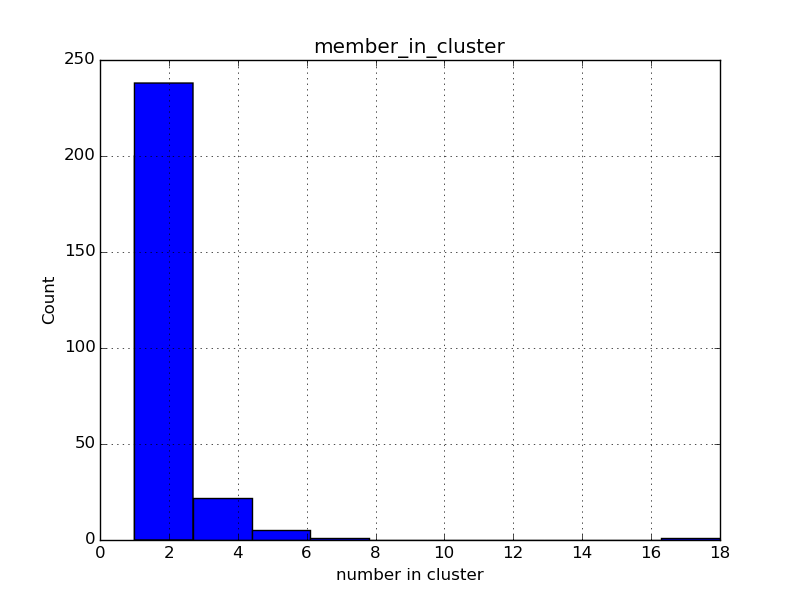
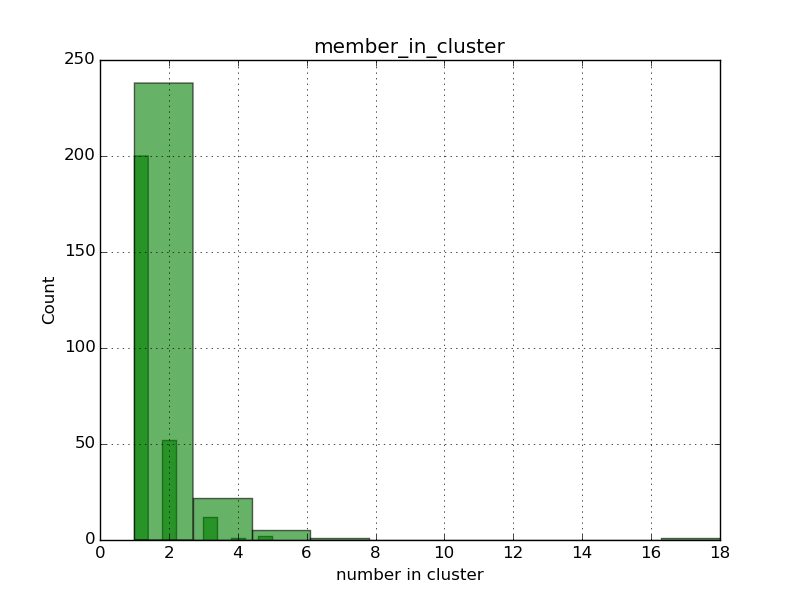
heat map not working

Changed region(s): [[0.1562, 0.12, 0.4375, 0.9], [0.8438, 0.87, 0.875, 0.9]]

diff --git a/Phyt_ITS_identifying_pipeline/Python_ITS_scripts/draw_bar_chart_of_clusters.py b/Phyt_ITS_identifying_pipeline/Python_ITS_scripts/draw_bar_chart_of_clusters.py
@@ -15,6 +15,7 @@ import matplotlib
 import numpy
 
 
+
 ##############################################################################################
 # drawing a histogram
 #n, bins, patches = hist(data)
@@ -71,22 +72,27 @@ def covert_dict_to_list_of_value(in_dict):
     return sorted(output_list), number_of_keys
 
 def plot_graph(data_values, title, number_of_keys, file_in):
+    """function to draw a histogram of a given list of values.
+    http://matplotlib.org/1.3.0/examples/pylab_examples/histogram_demo_extended.html
+    https://github.com/widdowquinn/Teaching-Data-Visualisation/blob/master/exercises/one_variable_continuous/one_variable_continuous.ipynb
+    """
         #import matplotlib
         matplotlib.use('Agg')
         import pylab
         import matplotlib.mlab as mlab
-        bins = max(data_values)
-        pylab.hist(data_values, facecolor='blue')
-        mu = mean(data_values)
-        standard_dev = numpy.std(data_values)
+        #bins = max(data_values)
+        #pylab.hist(data_values, facecolor='blue')
+        pylab.hist(data_values, facecolor='green', alpha=0.6)
+
+        #mu = mean(data_values)
+        #standard_dev = numpy.std(data_values)
         # add a 'best fit' line
-        y = mlab.normpdf(bins, mu, standard_dev)
-        l = pylab.plot(bins, y, 'r--', linewidth=10)
+        #y = mlab.normpdf(bins, mu, standard_dev)
+        #l = pylab.plot(bins, y, 'r--', linewidth=1, color='blue')
         pylab.grid(True)
         pylab.title(title)
         pylab.xlabel('number in cluster')
         pylab.ylabel('Count')
-        pylab.show()
         pylab.savefig(file_in+"_"+title+'_histogram.png')
 
         os.chdir('..')
@@ -169,6 +175,8 @@ parser = OptionParser(usage=usage)
 
 parser.add_option("-i","--in", dest="in_file", default=None,
                   help="clustering out file")
+parser.add_option("--heatmap", dest="heatmap", default=False,
+                  help="draw a heat map of the species clustering")
 
 parser.add_option("-o", "--out_prefix", dest="out_file", default="summarise_clusters.out",
                   help="prefix to the output filenames")
@@ -177,10 +185,14 @@ parser.add_option("-o", "--out_prefix", dest="out_file", default="summarise_clus
 (options, args) = parser.parse_args()
 
 in_file = options.in_file
+heatmap = options.heatmap
 out_file = options.out_file
 
 #run the program
 
 parse_tab_file_get_clusters(in_file, out_file)
+
+if heatmap:
+    from draw_heat_map import *
 
 print "done"

diff --git a/Phyt_ITS_identifying_pipeline/Python_ITS_scripts/draw_heat_map.py b/Phyt_ITS_identifying_pipeline/Python_ITS_scripts/draw_heat_map.py
@@ -1,0 +1,2 @@
+from scipy.io import netcdf
+#https://github.com/widdowquinn/Teaching-Data-Visualisation/blob/master/exercises/colormaps_surfaces_netcdf/colormaps_surfaces_netcdf.ipynb
